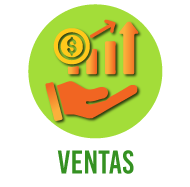
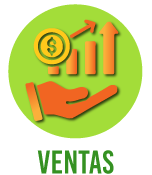
modifico imagen ventas para encajar en la pagina de contenido de usuarios

diff --git a/css/estilosContenido.css b/css/estilosContenido.css
@@ -1,161 +1,168 @@
 * {
-    margin: 0;
-    padding: 0;
-    box-sizing: border-box;
+  margin: 0;
+  padding: 0;
+  box-sizing: border-box;
 }
 
 html {
-    width: 100%;
-    height: 100vh;
-    
+  width: 100%;
+  height: 100vh;
 }
 
 body {
-    background-image: url('../imagenes/fondo-producto.jpg');
-    background-size: 100% 100%;
-    background-position: center;
-    background-repeat: no-repeat;
-    background-attachment: fixed;
-    color: gray;
-    font-family: 'Raleway', sans-serif;
+  background-image: url("../imagenes/fondo-producto.jpg");
+  background-size: 100% 100%;
+  background-position: center;
+  background-repeat: no-repeat;
+  background-attachment: fixed;
+  color: gray;
+  font-family: "Raleway", sans-serif;
 }
 
 .contenedor {
-    max-width: 500px;
-    width: 90%;
-    margin: 0 auto;
+  max-width: 500px;
+  width: 90%;
+  margin: 0 auto;
 }
 
-.contenedorLinks{
+.contenedorLinks {
   padding: 5px;
   display: flex;
   justify-content: space-around;
   align-items: center;
 }
 
-.contenedorLinks *{
-    color: black;
-    display: inline-block;
-    padding: 2px;
+.contenedorLinks * {
+  color: black;
+  display: inline-block;
+  padding: 2px;
 }
 
-.cerrarSesion{
-    margin-right: 10px;
-    width: 70%;
-    
+.cerrarSesion {
+  margin-right: 10px;
+  width: 70%;
 }
 
-.cerrarSesion a{
-    border-radius: 10px;
-    text-decoration: none;
-    border: 2px solid gray;
-    padding: 3px 5px;
-    font-weight: 600;
-    background: azure;
-    font-size: 1.1em;
+.cerrarSesion a {
+  border-radius: 10px;
+  text-decoration: none;
+  border: 2px solid gray;
+  padding: 3px 5px;
+  font-weight: 600;
+  background: azure;
+  font-size: 1.1em;
 }
 
-.descargaLibro{
-    text-align: right;
-    width: 90%;
+.descargaLibro {
+  text-align: right;
+  width: 90%;
 }
 
-.descargaLibro a{
-    display: inline-block;
-    width: 100%;
+.descargaLibro a {
+  display: inline-block;
+  width: 100%;
 }
 
-.descargaLibro img{
-    display: inline-block;
-    width: 100%;
+.descargaLibro img {
+  display: inline-block;
+  width: 100%;
 }
 
 .titulo {
-    font-weight: 600;
-    color: #1D0158;
-    text-align: center;
-    margin-top: 10px;
-    margin-bottom: 6px;
+  font-weight: 600;
+  color: #1d0158;
+  text-align: center;
+  margin-top: 5px;
+  margin-bottom: 6px;
 }
 
-.contenedor .notificaciones{
-    width: auto;
-    height: auto;
-    padding: 4px;
-    display:flex;
-    align-items:center;
-    justify-content:space-around;
+.contenedor .notificaciones {
+  width: auto;
+  height: auto;
+  padding: 4px;
+  display: flex;
+  align-items: center;
+  justify-content: space-around;
 }
 
-.contenedor .notificaciones span{
-    width: auto;  
-    height: 30px;
-    border: 2px solid gray;
-    background: azure;
-    color: black;
-    border-radius: 8px;
-    font-weight:600;
-    padding: 10px 8px;
-    text-align: center;
-    font-size: 1.1em;
-    display: flex;
-    align-items: center;
-    justify-content: center;
+.contenedor .notificaciones span {
+  width: auto;
+  height: 30px;
+  border: 2px solid gray;
+  background: azure;
+  color: black;
+  border-radius: 8px;
+  font-weight: 600;
+  padding: 10px 8px;
+  text-align: center;
+  font-size: 1.1em;
+  display: flex;
+  align-items: center;
+  justify-content: center;
 }
 
 p {
-    color: #1D0158;
-    font-weight: 600;
-    padding: 5px;
-    font-size: 17px;
+  color: #1d0158;
+  font-weight: 600;
+  padding: 5px;
+  font-size: 17px;
 }
 
 a:hover {
-    text-decoration: none;
+  text-decoration: none;
 }
 
 .border {
-    border: none;
-    margin-bottom: 5px;
-    border-top: 6px solid #B8711B;
-    background: none;
-    color: none;
+  border: none;
+  margin-bottom: 5px;
+  border-top: 6px solid #b8711b;
+  background: none;
+  color: none;
 }
 
 .pagos {
-    width: 100%;
-    height: auto;
-    margin-bottom: 10px;
+  width: 100%;
+  height: auto;
+  /* margin-bottom: 10px; */
 }
 
 .pagos a {
-    display: block;
-    margin: auto;
-    width: 90%;
-    background-color: transparent;
-    border: none;
+  display: block;
+  margin: auto;
+  width: 90%;
+  background-color: transparent;
+  border: none;
 }
 
 .imagen-pago img {
-    display: block;
-    margin: auto;
+  display: block;
+  margin: auto;
 }
 
 .reportes {
-    width: 100%;
-    height: auto;
-    margin-bottom: 10px;
+  width: 100%;
+  height: auto;
+  margin-bottom: 10px;
 }
 
 .reportes a {
-    display: block;
-    margin: auto;
-    width: 90%;
-    background-color: transparent;
-    border: none;
+  display: block;
+  margin: auto;
+  width: 90%;
+  background-color: transparent;
+  border: none;
+}
+
+.imagen-reportes {
+  width: fit-content;
+  height: 175px;
+  display: flex;
+  justify-content: center;
+  align-items: center;
+  margin: auto;
 }
 
 .imagen-reportes img {
-    display: block;
-    margin: auto;
+  width: 100%;
+  height: 100%;
 }

diff --git a/vistas/contenidoVista.php b/vistas/contenidoVista.php
@@ -6,7 +6,7 @@
     <link rel="preconnect" href="https://fonts.gstatic.com">
     <link href="https://fonts.googleapis.com/css2?family=Raleway:wght@400;500;600&display=swap" rel="stylesheet">
     <title>Contenido</title>
-    <link rel="stylesheet" href="../css/estilosContenido.css?v=9">
+    <link rel="stylesheet" href="../css/estilosContenido.css?v=17">
     <link rel="stylesheet" href="../css/estilosPayu.css?v=5">
     
 </head>
@@ -52,8 +52,8 @@
         <div class="reportes">
 
             <div class="imagen-reportes">
-                <a href="../php/reporteventas.php"><img src="../imagenes/ventas2.png" alt=""></a>
-                </div>
+              <a href="../php/reporteventas.php"><img src="../imagenes/ventas2.png" alt=""></a>
+            </div>
             
         </div>
 
